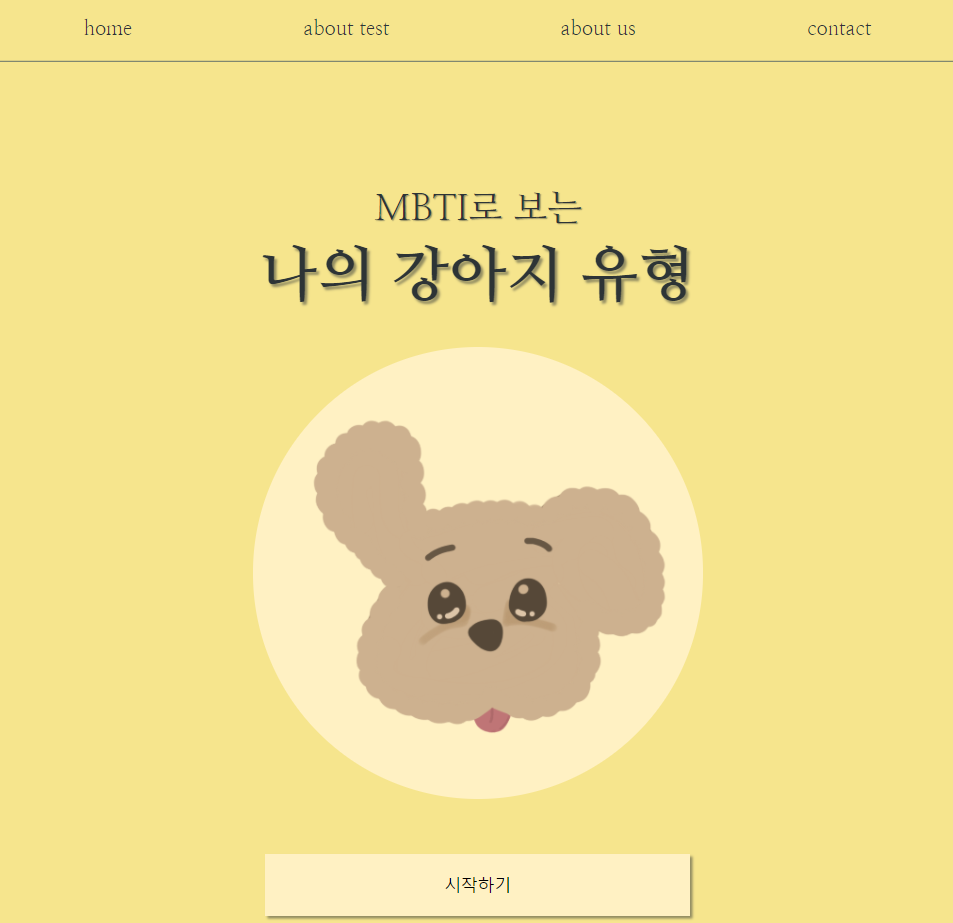
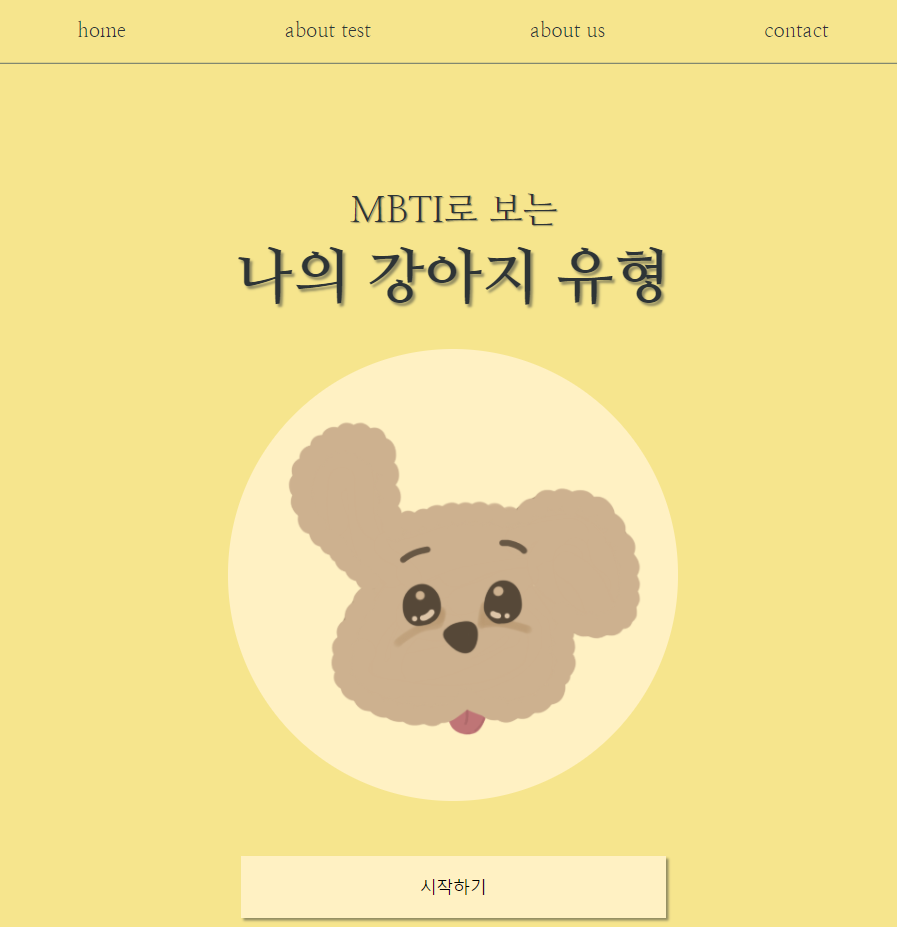
index-css

diff --git a/styles.css b/styles.css
@@ -1,5 +1,142 @@
 @charset "utf-8";
+@import url("https://fonts.googleapis.com/css2?family=Lora:wght@400;500;600;700&display=swap");
 * {
   margin: 0;
   padding: 0;
+}
+a {
+  text-decoration: none;
+  color: inherit;
+}
+body {
+  font-family: "Lora", serif;
+  background-color: #f0edcc;
+  color: #02343f;
+}
+header {
+  width: 100%;
+  height: 193px;
+  box-sizing: border-box;
+  padding: 20px;
+}
+header h1 {
+  font-size: 40px;
+}
+.blindHeader {
+  display: none;
+}
+.slideWrap {
+  width: 100%;
+  background-color: #02343f;
+  display: flex;
+  flex-direction: column;
+  align-items: center;
+  padding: 20px 0;
+  color: #f0edcc;
+}
+.sm_title {
+  display: block;
+  font-size: 35px;
+  margin-bottom: 10px;
+  font-weight: lighter;
+}
+.slideWrap__img {
+  max-width: 1120px;
+}
+.slideWrap__img img {
+  width: 100%;
+  border-radius: 10px;
+}
+.slideWrap .indicator {
+  display: flex;
+}
+.slideWrap .indicator a {
+  display: block;
+  text-indent: -9999em;
+  width: 10px;
+  height: 10px;
+  background-color: #f0edcc;
+  border-radius: 50%;
+  margin: 10px 5px 5px;
+}
+.works__link-img {
+  width: 550px;
+  height: 600px;
+  border-radius: 10px;
+}
+.work-container {
+  display: flex;
+  flex-direction: column;
+  align-items: center;
+  padding: 20px 0;
+}
+.work-container .works {
+  max-width: 1120px;
+  display: flex;
+  flex-wrap: wrap;
+  justify-content: space-between;
+}
+.work-container .works article {
+  display: flex;
+  flex-direction: column;
+  align-items: center;
+  margin-bottom: 30px;
+}
+.work-container .works article h3 {
+  margin: 5px 0;
+}
+footer {
+  width: 100%;
+  background-color: #02343f;
+  display: flex;
+  flex-direction: column;
+  align-items: center;
+  padding: 20px 0;
+  color: #f0edcc;
+}
+@media (max-width: 1119px) {
+  .work-container .works {
+    flex-direction: column;
+  }
+  .work-container .works article {
+    margin-bottom: 50px;
+  }
+  .slideWrap__img {
+    padding: 0 20px;
+  }
+}
+
+@media (max-width: 570px) {
+  header {
+    width: 100%;
+    height: 100px;
+    padding: 20px;
+    display: flex;
+    align-items: center;
+  }
+  header h1 {
+    display: none;
+  }
+  .blindHeader {
+    display: block;
+    font-size: 26px;
+    font-weight: bold;
+  }
+  .sm_title {
+    font-size: 20px;
+  }
+  .slideWrap .indicator a {
+    width: 6px;
+    height: 6px;
+  }
+  .works__link-img {
+    width: 300px;
+    height: 360px;
+  }
+  .work-container .works article h3 {
+    font-size: 16px;
+  }
+  .work-container .works article p {
+    font-size: 14px;
+  }
 }

diff --git a/index.html b/index.html
@@ -7,9 +7,17 @@
     <link rel="stylesheet" href="styles.css">
 </head>
 <body>
-    <header><h1>a collection of Lee Hyun-bee's works</h1></header>
+    <header>
+        <h1>A collection<br>Of<br> Lee Hyun-bee's Works</h1>
+        <p class="blindHeader">
+            A collection of<br>Lee Hyun-bee's Works
+        </p>
+    </header>
     <div class="slideWrap">
-        <div><img src="img/banner1.PNG" alt="" /></div>
+        <h2 class="sm_title">Preview</h2>
+        <div class="slideWrap__img">
+            <img src="img/banner1.PNG" alt="" />
+        </div>
         <div class="indicator">
             <a href="#">1</a>
             <a href="#">2</a>
@@ -18,25 +26,25 @@
     </div>
     <section>
         <div class="work-container">
-            <h2>Works</h2>
+            <h2 class="sm_title">Works</h2>
             <div class="works">
                 <article>
-                    <a href="codingwebsite/condingeducation.html"><img src="img/codingwebsite.PNG" alt=""></a>
+                    <a href="codingwebsite/condingeducation.html"><img src="img/codingwebsite.PNG" class="works__link-img" alt=""></a>
                     <h3>Coding WebSite</h3>
                     <p>Tools I Used : HTML5, CSS3</p>
                 </article>
                 <article>
-                    <a href="https://beeee2.github.io/ToDoList/"><img src="img/todolist.PNG" alt=""></a>
+                    <a href="https://beeee2.github.io/ToDoList/"><img src="img/todolist.PNG" class="works__link-img" alt=""></a>
                     <h3>To Do List</h3>
                     <p>Tools I Used : HTML5, CSS3, Vanilla JS</p>
                 </article>
                 <article>
-                    <a href="https://beeee2.github.io/KAKAO_CLONE/"><img src="img/kakaoclone.PNG" alt=""></a>
-                    <h3>KAKAO CLONE</h3>
+                    <a href="https://beeee2.github.io/KAKAO_CLONE/"><img src="img/kakaoclone.PNG" class="works__link-img" alt=""></a>
+                    <h3>KAKAO CLONE (max-width:644px)</h3>
                     <p>Tools I Used : HTML5, CSS3</p>
                 </article>
                 <article>
-                    <a href="https://beeee2.github.io/dog-mbti/"><img src="img/mypuppytype.PNG" alt=""></a>
+                    <a href="https://beeee2.github.io/dog-mbti/"><img src="img/mypuppytype.PNG" class="works__link-img" alt=""></a>
                     <h3>My puppy type by MBTI</h3>
                     <p>Tools I Used : HTML5, CSS3</p>
                 </article>
